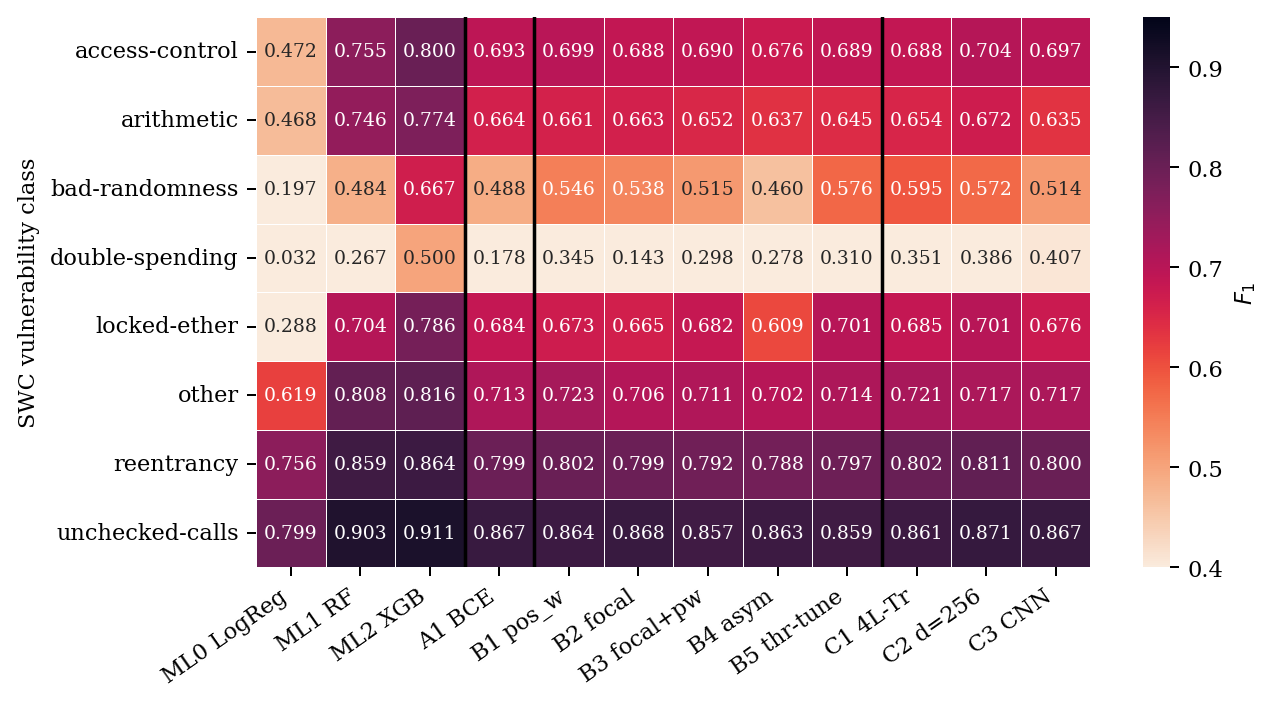
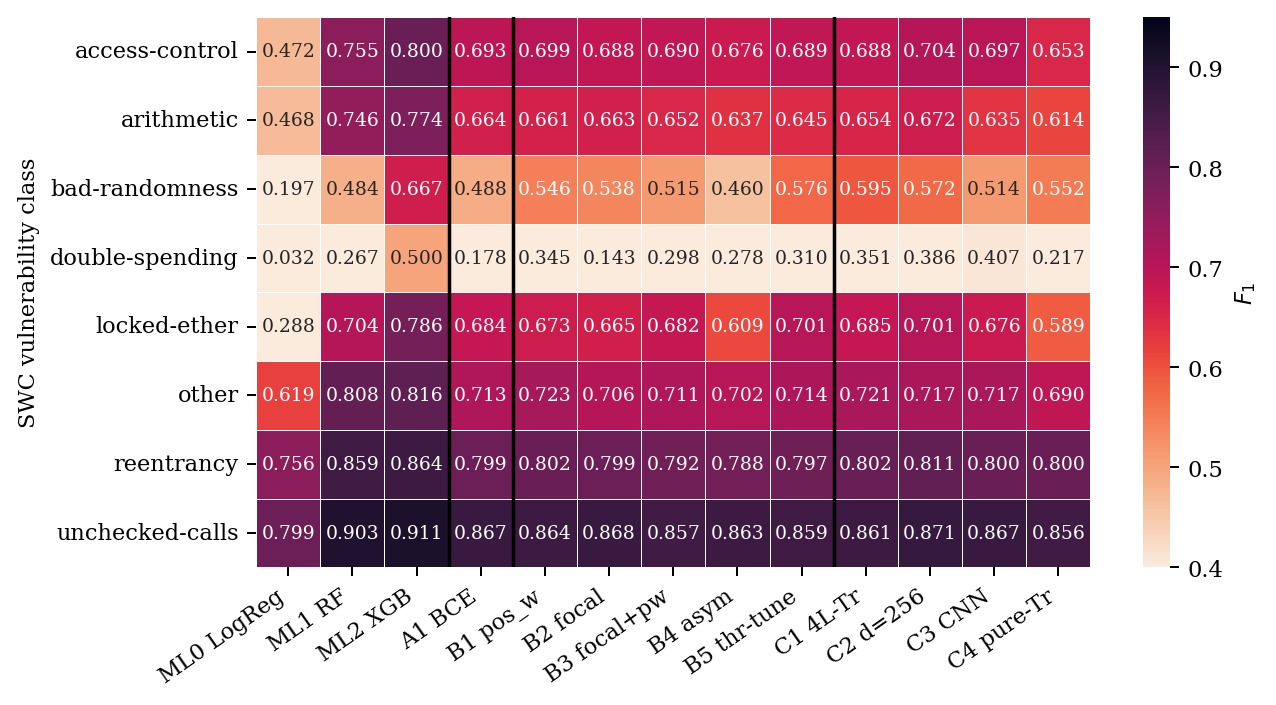
Complete the deep ablation: all ten configurations
C4_pure_transformer lands at macro-F1 0.6215, the weakest of the ten, and
with it the comparison rests entirely on measurement. Classical XGBoost at
0.7646 now outperforms every one of ten deep configurations rather than
"the ones that finished" -- a claim that previously leaned partly on absent
data. Best deep configuration is unchanged (C2 at 0.6793), gap 8.53pp,
8/8 per-class wins, sign-test p 0.0078 at its n=8 floor.

The limitation note removed itself: emit_macros_v2.py derives the caveat and
the architecture list from which configs are present, so with ten in hand
\vDlCaveat is empty and \vDlArch reads "depth, width, pure CNN, and pure
Transformer" without anyone editing prose.

Getting C4 took five attempts and each failure taught a distinct lesson,
recorded here so the next person does not repay the tuition: a detached
trainer keeps the GPU busy but leaves the KERNEL idle, and Colab reclaims on
kernel idleness; piping through tee block-buffers stdout so the client goes
blind and aborts a finished run; and the exec timeout bounds the whole call,
with client death interrupting execution server-side. What finally saved the
result was none of those fixes but the third copy -- the trainer POSTs each
finished config to an HTTP inbox, and that copy survived when the client and
the session did not.

Reproduction notebook regenerated: 114 checks over ten configs.
Guard: 78 checks, 0 mismatches.

Changed region(s): [[0.1834, 0.0, 0.8558, 0.8113], [0.1223, 0.8426, 0.8252, 0.9674]]

diff --git a/results/numbers_v2.tex b/results/numbers_v2.tex
@@ -54,14 +54,14 @@
 \newcommand{\vMlLr}{0.4538}
 \newcommand{\vDlBestName}{C2\_dmodel\_256}
 \newcommand{\vDlBest}{0.6793}
-\newcommand{\vDlWorst}{0.6267}
-\newcommand{\vDlMean}{0.6538}
+\newcommand{\vDlWorst}{0.6215}
+\newcommand{\vDlMean}{0.6506}
 \newcommand{\vDlGap}{8.53}
 \newcommand{\vDlWins}{8/8}
 \newcommand{\vDlPsign}{0.008}
 \newcommand{\vDlHolm}{yes}
-\newcommand{\vDlLosing}{9}
-\newcommand{\vDlOf}{9}
-\newcommand{\vDlNConfigs}{9}
-\newcommand{\vDlArch}{depth, width, and pure CNN}
-\newcommand{\vDlCaveat}{One further architectural ablation (a pure Transformer variant) did not complete within the GPU allocation available for this study and is excluded. We flag this rather than omit it silently. Under the earlier, leaking protocol it ranked last of ten, so it was not the strongest deep configuration there; we make no claim about where it would land under the present protocol.}
+\newcommand{\vDlLosing}{10}
+\newcommand{\vDlOf}{10}
+\newcommand{\vDlNConfigs}{10}
+\newcommand{\vDlArch}{depth, width, pure CNN, and pure Transformer}
+\newcommand{\vDlCaveat}{}

diff --git a/MODEL_CARD.md b/MODEL_CARD.md
@@ -74,7 +74,7 @@ The released feature extractor is documented in
 | Multi-label | LogisticRegression | 0.4538 |
 | Multi-label | best Conv-Transformer (`C2_dmodel_256`) | 0.6793 |
 
-Deep ablation, macro-F1 on the same test split (9 configurations):
+Deep ablation, macro-F1 on the same test split (10 configurations):
 
 - `C2_dmodel_256` — 0.6793
 - `C1_transformer_4layers` — 0.6695
@@ -85,10 +85,9 @@ Deep ablation, macro-F1 on the same test split (9 configurations):
 - `A1_baseline` — 0.6358
 - `B2_focal_g2` — 0.6338
 - `B4_asymmetric` — 0.6267
+- `C4_pure_transformer` — 0.6215
 
 Every deep configuration falls below the classical multi-label baseline; the gap to the best is 8.53 percentage points. This count is descriptive — the configurations share one dataset and one feature representation, so no binomial test is attached to it.
-
-> **Ablation coverage.** 9 of 10 deep configurations completed: `C4_pure_transformer` did not finish within the GPU allocation for this run and are excluded rather than estimated. Under the v1 (leaking) protocol those ranked 4th and 10th of 10, so neither was the strongest deep configuration there; no claim is made about where they would land here.
 
 
 ## Intended Use

diff --git a/README.md b/README.md
@@ -70,8 +70,6 @@ prioritise contracts for deeper analysis.
 
 All values are from a single read of the held-out test split (11,247 contracts) under the v2 protocol. Confidence intervals are stratified percentile bootstrap (B=1000). XGBoost beats the best deep configuration on 8/8 classes (sign test p=0.0078; with n=8 the smallest attainable two-sided p is 2/256=0.0078, so this is the floor, not a stronger claim).
 
-> **Ablation coverage.** 9 of 10 deep configurations completed: `C4_pure_transformer` did not finish within the GPU allocation for this run and are excluded rather than estimated. Under the v1 (leaking) protocol those ranked 4th and 10th of 10, so neither was the strongest deep configuration there; no claim is made about where they would land here.
-
 These numbers are generated from `results/` by `scripts/emit_cards_v2.py` and cross-checked against the paper by `scripts/check_numbers_v2.py`; they are not typed by hand.
 
 
